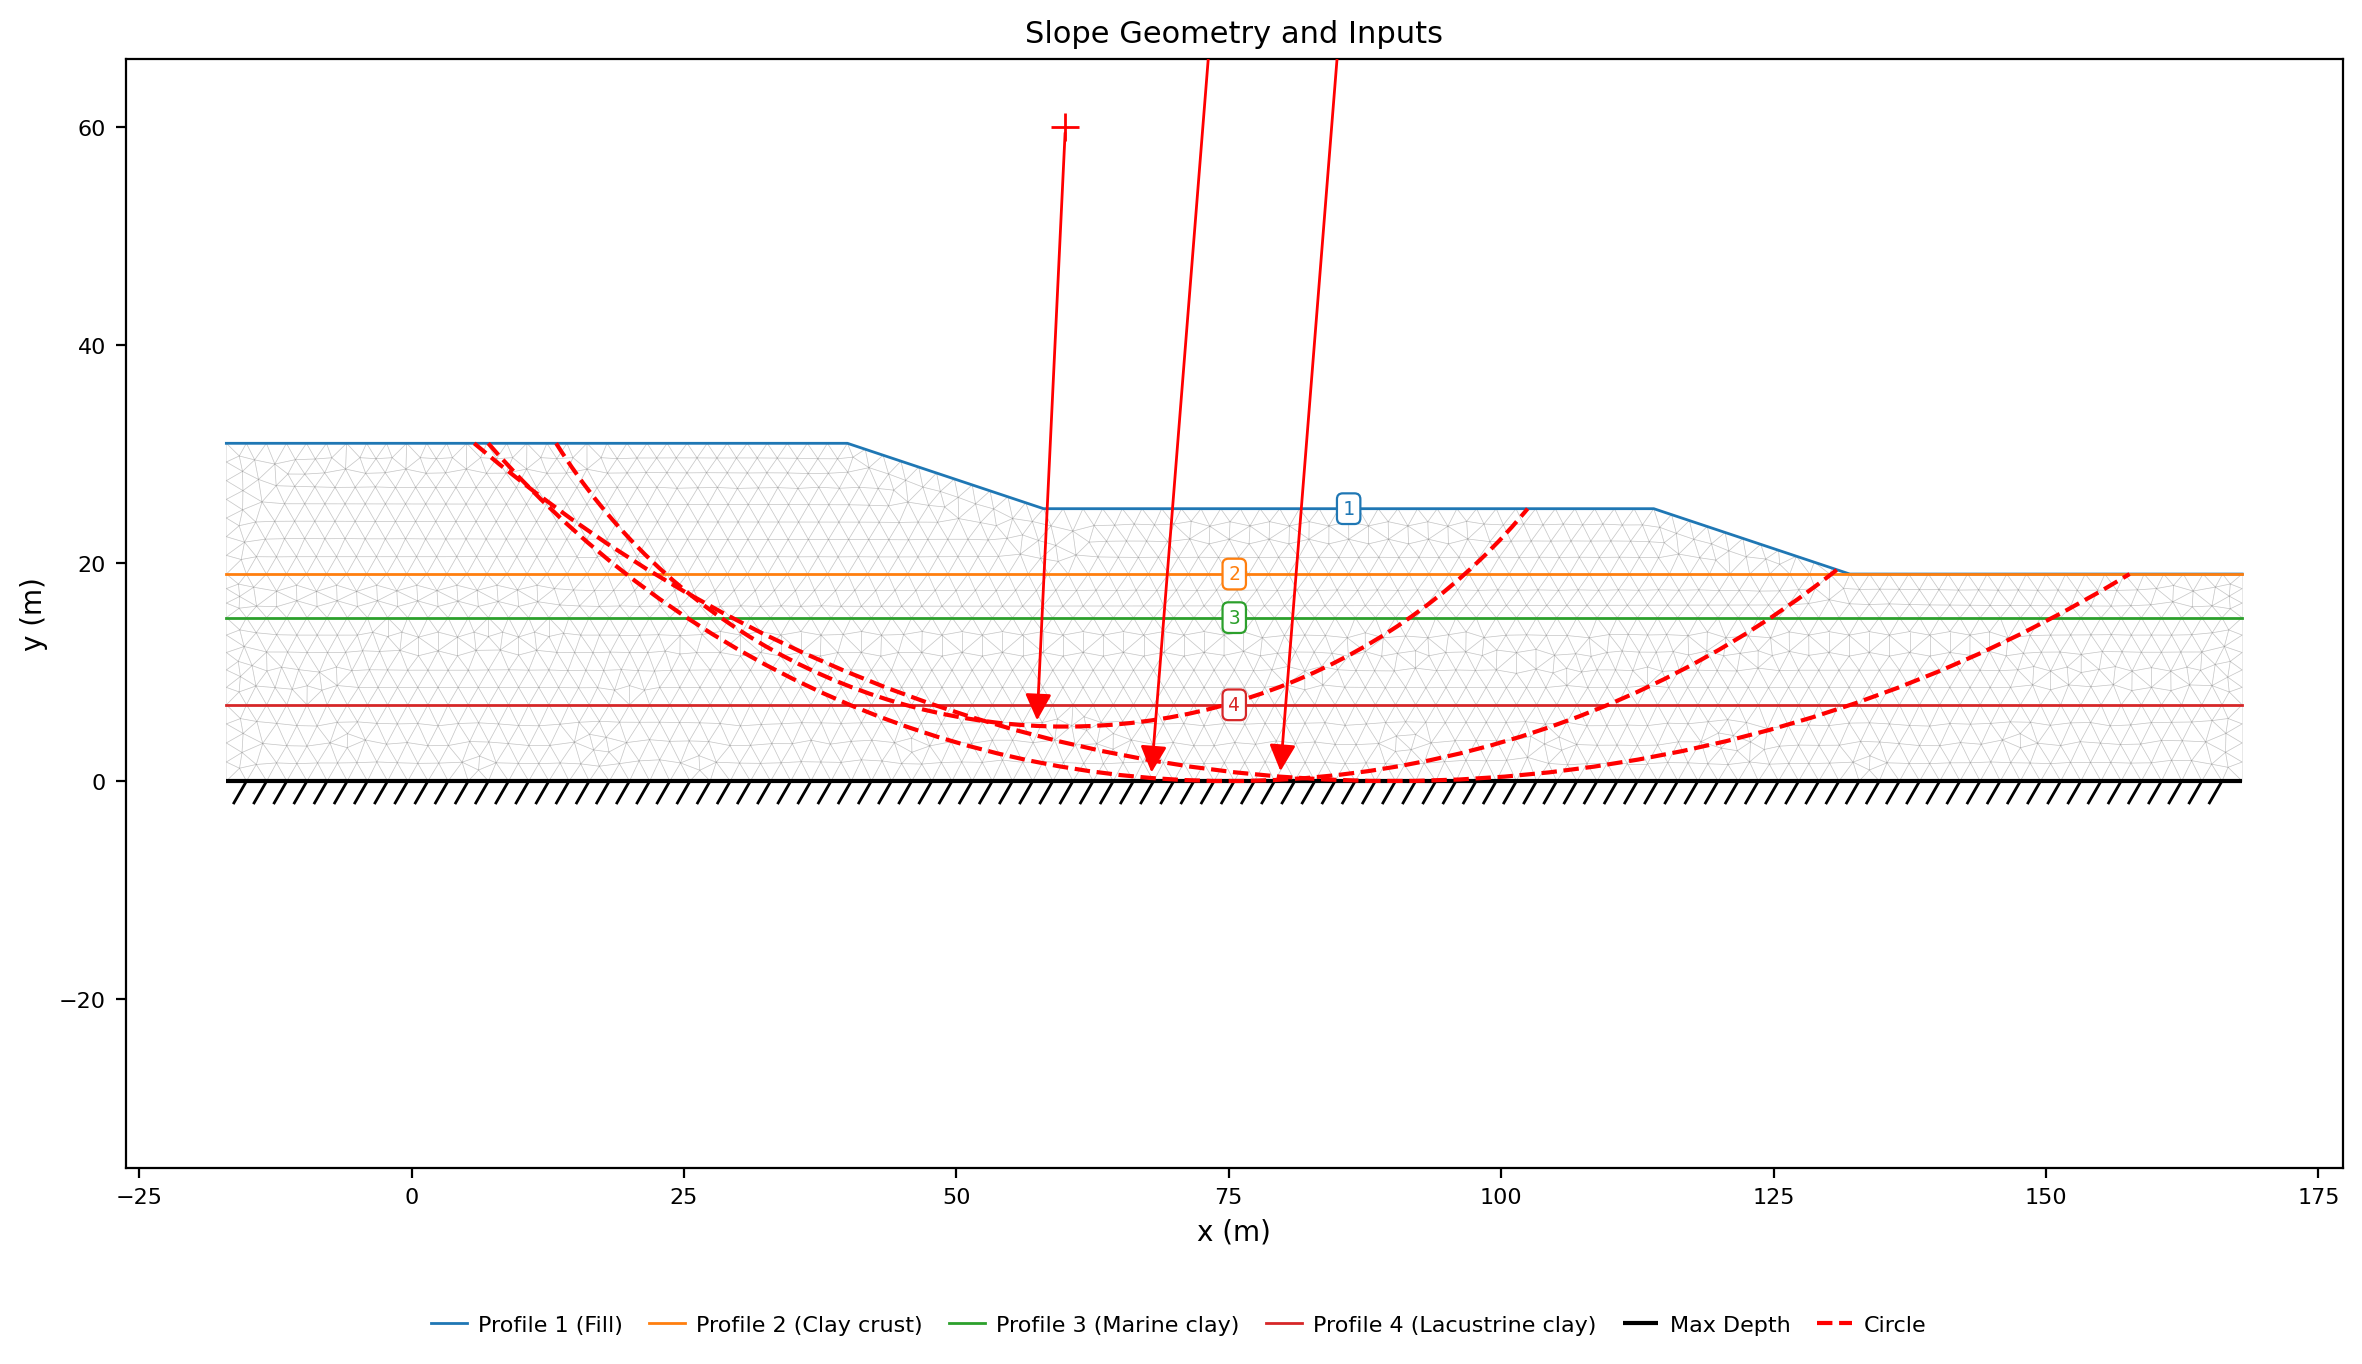
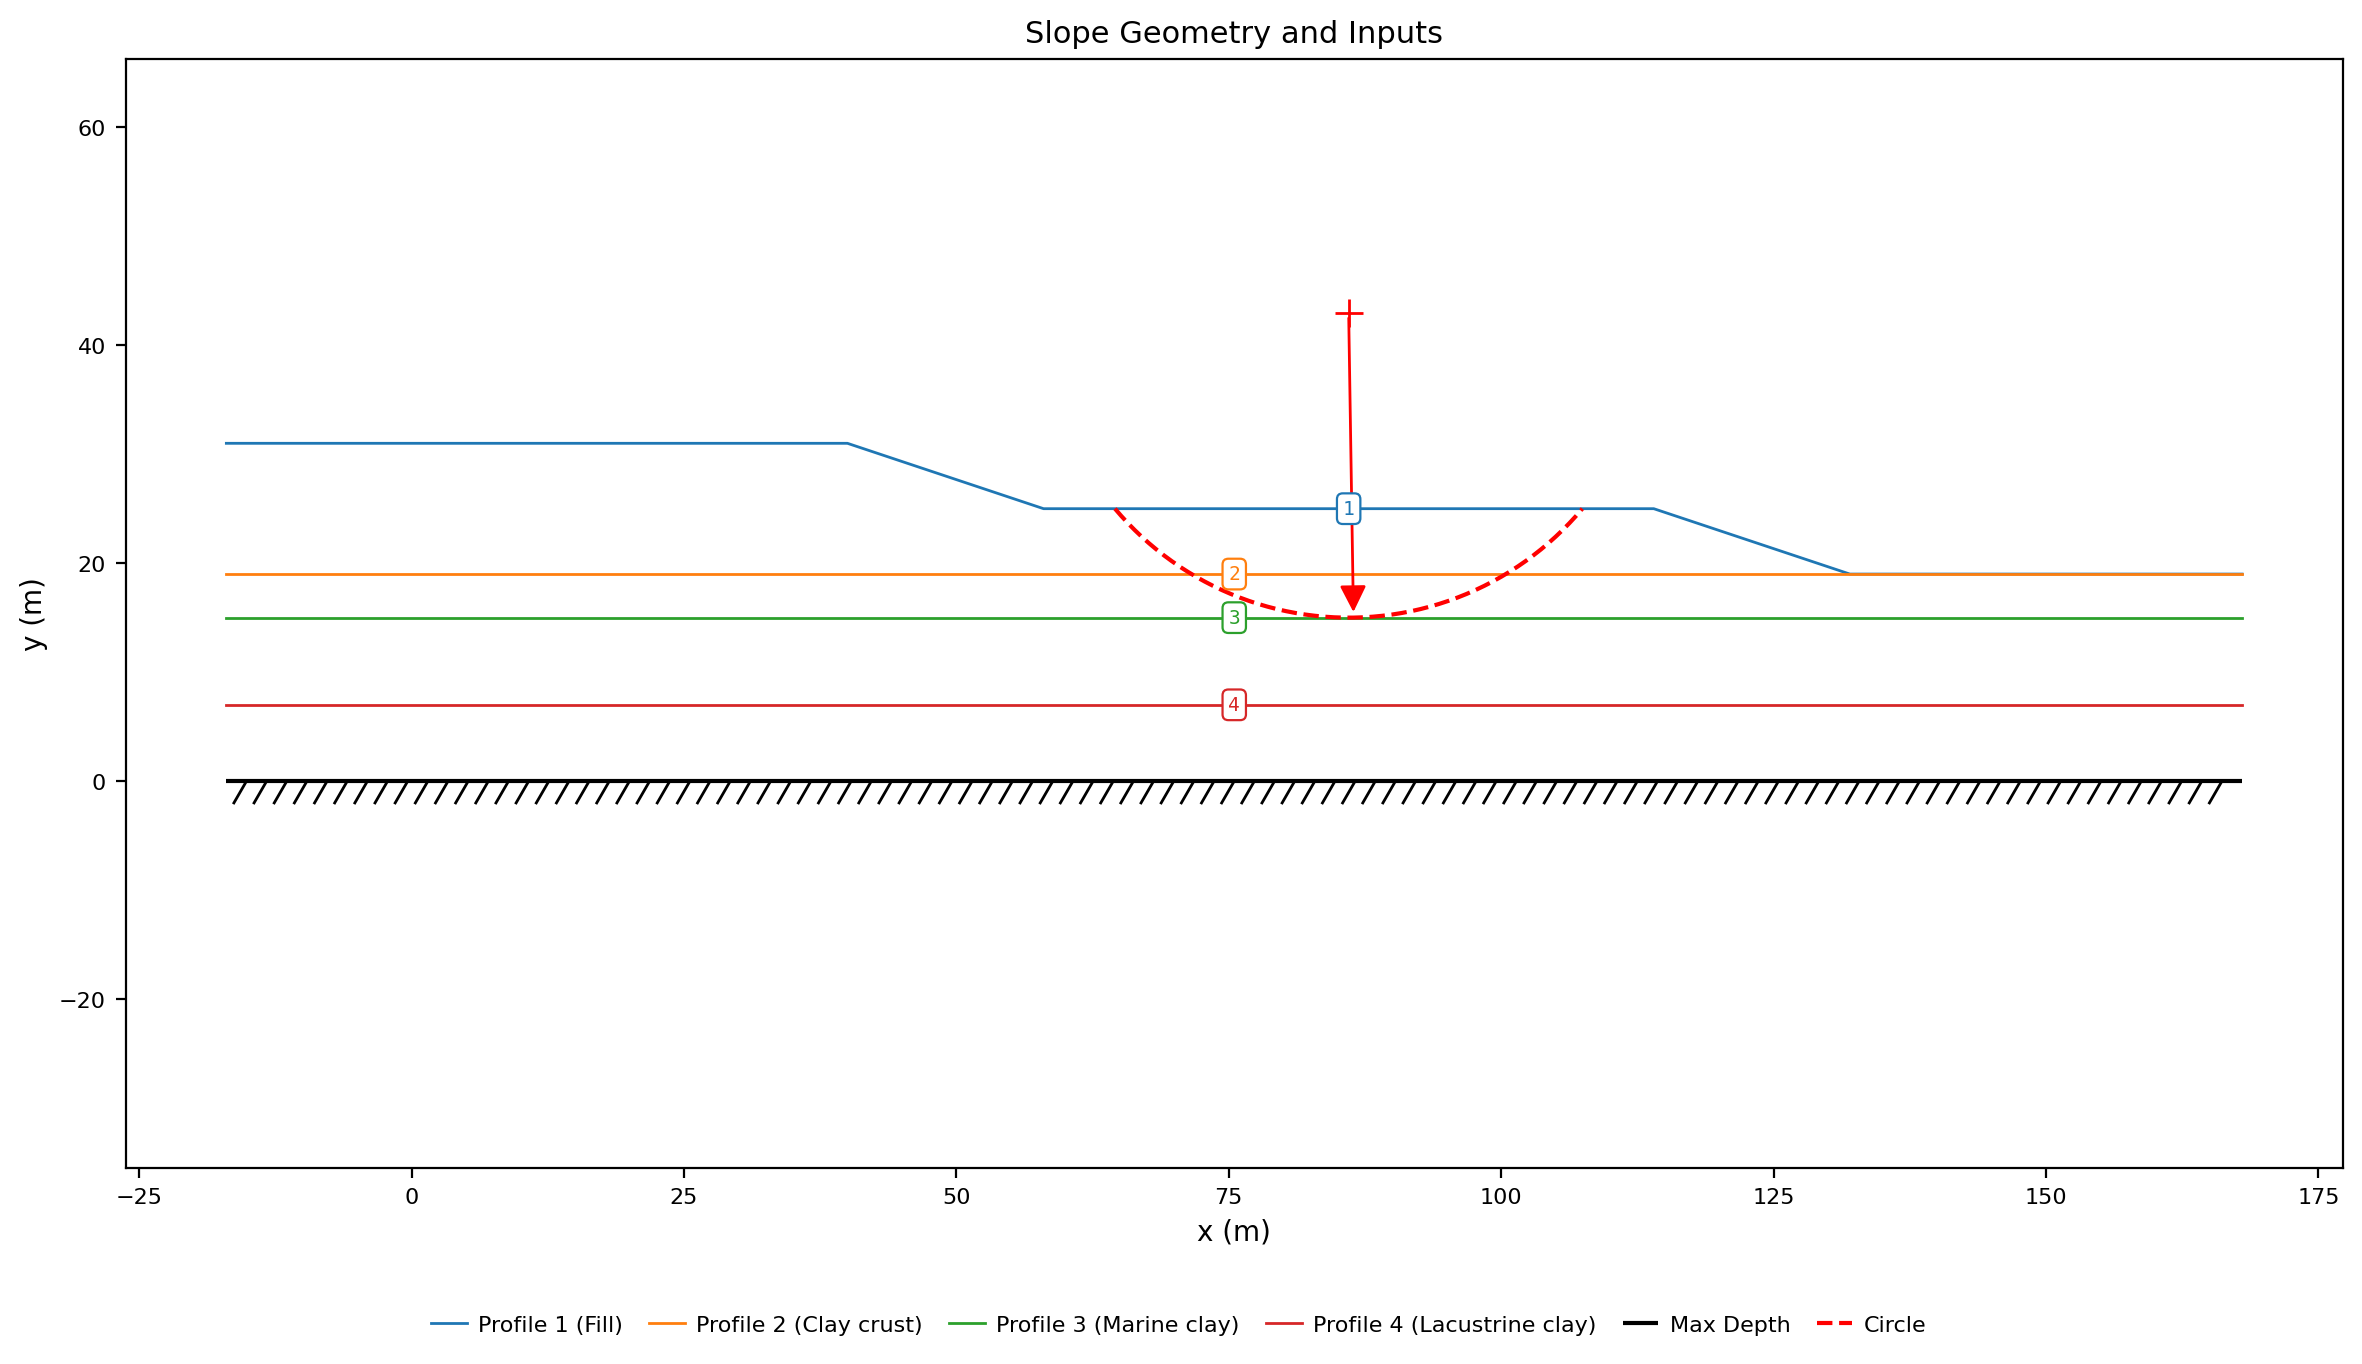
docs(tutorials): Part B opens its own file and shows its dialogs
The James Bay part now runs on xslope_james_bay.xlsx — a copy of VP75's
model carrying the single mid-depth seed on its circles sheet (rich headers
patched to match its new home; verified 1.7443 / 1.4204 on the copy) — so
the reader opens and runs instead of deleting two of a corpus file's rows.
Part B now shows the same graphics Part A does: the loaded-model inputs
plot with its one seed, the Run dialog with the 2 m filter set, and the
dialog again with Grid search ticked, each at the step that dictates it.

Claude-Session: https://claude.ai/code/session_01XjjT2aBxw8gY7EFdpoUcpj

Changed region(s): [[0.0927, 0.3079, 0.9581, 0.585], [0.5563, 0.2155, 0.5872, 0.2463]]

diff --git a/tools/make_tutorial_figures.py b/tools/make_tutorial_figures.py
@@ -1220,8 +1220,7 @@ def lem09_plots():
 #: searched from the generated circle set and from the deep circle the file
 #: carries, so each answer sits on the surface its own seed converged to.
 LEM10 = os.path.join(REPO_ROOT, "docs/lem/files/xslope_mult_min_KEY.xlsx")
-LEM10_VP75 = os.path.join(REPO_ROOT,
-                          "docs/verification/files/rocscience/vp075.xlsx")
+LEM10_JB = os.path.join(REPO_ROOT, "docs/lem/files/xslope_james_bay.xlsx")
 LEM10_SLICES = 40
 
 
@@ -1280,16 +1279,16 @@ def lem10_plots():
     # showcase. The generated per-layer seeds settle in the fill; the grid
     # finds the deep circle through all three clays. Both at the Run dialog's
     # default 40 slices, which is the flow the page walks.
-    vp75 = load_slope_data(LEM10_VP75)
+    # Part B runs on the tutorial's own copy of VP75: the same dyke with a
+    # single mid-depth seed on the circles sheet — the circle an engineer might
+    # place expecting the failure under the crest — so the reader opens and
+    # runs without editing anything.
+    vp75 = load_slope_data(LEM10_JB)
     capture("lem10_vp75_inputs.png", plot_inputs, vp75,
             title="Slope Geometry and Inputs")
     gen75 = generate_starting_circles(vp75)
-    # The trap the page shows is the SINGLE plausible seed: the per-layer circle
-    # tangent to the marine-clay top (the one an engineer might place, expecting
-    # the failure in the fill), searched alone with the 2 m surficial filter.
-    single = [c for c in gen75 if abs(c["Depth"] - 15.0) < 1e-6]
     with contextlib.redirect_stdout(io.StringIO()):
-        fs_1, _, _, _ = circular_search(dict(vp75, circles=single), "spencer",
+        fs_1, _, _, _ = circular_search(copy.deepcopy(vp75), "spencer",
                                         num_slices=40, min_slip_depth=2.0,
                                         diagnostic=False)
         fs_all, _, _, _ = circular_search(dict(vp75, circles=gen75), "spencer",

diff --git a/tools/capture_tutorial_screenshots.py b/tools/capture_tutorial_screenshots.py
@@ -853,9 +853,38 @@ def lem10_circles():
     return _grab(dlg, "lem10_studio_circles.png")
 
 
+LEM10_JB = os.path.join(REPO_ROOT, "docs/lem/files/xslope_james_bay.xlsx")
+
+
+def lem10_jb_run_lem():
+    """Part B's first run: the dyke's single seed, Spencer auto search with the
+    surficial filter at the metric 2 m — the state the step dictates."""
+    from studio.dialogs import RunLemDialog
+
+    dlg = RunLemDialog(defaults={"method": "spencer", "analysis": "auto_search",
+                                 "num_slices": 40, "min_slip_depth": 2.0},
+                       slope_data=_load(LEM10_JB))
+    dlg.resize(dlg.sizeHint())
+    return _grab(dlg, "lem10_jb_run_lem.png")
+
+
+def lem10_jb_run_lem_grid():
+    """Part B's second run: the same dialog with Grid search ticked."""
+    from studio.dialogs import RunLemDialog
+
+    dlg = RunLemDialog(defaults={"method": "spencer", "analysis": "auto_search",
+                                 "num_slices": 40, "min_slip_depth": 2.0,
+                                 "grid_seed": True},
+                       slope_data=_load(LEM10_JB))
+    dlg.resize(dlg.sizeHint())
+    return _grab(dlg, "lem10_jb_run_lem_grid.png")
+
+
 SHOTS["lem10_run_lem"] = lem10_run_lem
 SHOTS["lem10_run_lem_filtered"] = lem10_run_lem_filtered
 SHOTS["lem10_circles"] = lem10_circles
+SHOTS["lem10_jb_run_lem"] = lem10_jb_run_lem
+SHOTS["lem10_jb_run_lem_grid"] = lem10_jb_run_lem_grid
 
 
 def lem01_global():

diff --git a/docs/tutorials/lem10_global_minimum.md b/docs/tutorials/lem10_global_minimum.md
@@ -27,7 +27,7 @@ watch a single plausible seed miss the global minimum that grid seeding finds
 with no seeds at all (Part B).
 </div>
 <p><span class="tg-pill">two materials</span><span class="tg-pill">profile lines</span><span class="tg-pill">starting circles</span><span class="tg-pill">circular search</span><span class="tg-pill">grid seeding</span><span class="tg-pill">minimum slip depth</span></p>
-<div class="tgm-model" markdown>**Completed models** — [xslope_mult_min_KEY.xlsx](../lem/files/xslope_mult_min_KEY.xlsx) (the same file used by [LEM Sample Problem 13](../lem/samples.md#13-multiple-local-minima)) and, for the closing example, [vp075.xlsx](../verification/files/rocscience/vp075.xlsx), the James Bay dyke of [verification problem VP75](../verification/rocscience.md#vp75)</div>
+<div class="tgm-model" markdown>**Completed models** — [xslope_mult_min_KEY.xlsx](../lem/files/xslope_mult_min_KEY.xlsx) (the same file used by [LEM Sample Problem 13](../lem/samples.md#13-multiple-local-minima)) and, for Part B, [xslope_james_bay.xlsx](../lem/files/xslope_james_bay.xlsx) — the James Bay dyke of [verification problem VP75](../verification/rocscience.md#vp75), with a single mid-depth starting circle</div>
 </div>
 
 ---
@@ -155,24 +155,23 @@ that runs beneath it and daylights beyond.
 ### Opening the model
 
 Download
-[vp075.xlsx](../verification/files/rocscience/vp075.xlsx) and open it in
-Studio — **File → Open**. The Inputs plot draws the four profile lines in
-their materials' colors, with the file's three starting circles spanning
-shallow to deep:
+[xslope_james_bay.xlsx](../lem/files/xslope_james_bay.xlsx) — the dyke's
+model, carrying a single starting circle an engineer might reasonably place:
+mid-depth, under the crest — and open it in Studio with **File → Open**. The
+Inputs plot draws the four profile lines in their materials' colors with that
+one seed:
 
 ![The loaded dyke](images/lem10_vp75_inputs.png){width=1000}
 
-### A single plausible seed
+### Running the analysis
 
-Open **Circles** and replace the file's three rows with a single circle an
-engineer might reasonably place — mid-depth, under the crest:
+Click **Run LEM…** and choose **Method** = `Spencer` and **Analysis** =
+`Auto search`, with **Ignore surficial (skin) failures** on and
+**Min slip depth** = `2` — the metric counterpart of Part A's 5 ft:
 
-| Xo | Yo | Option | Depth |
-|:---:|:---:|---|:---:|
-| 86 | 43 | Depth | 15 |
+![The Run LEM dialog on the dyke](images/lem10_jb_run_lem.png)
 
-Run **Spencer**, `Auto search`, with **Ignore surficial failures** on and
-**Min slip depth** = `2` — the metric counterpart of the last section's 5 ft:
+Click **Run**:
 
 ![Spencer from the single mid-depth seed](images/lem10_vp75_single.png){width=1000}
 
@@ -186,9 +185,13 @@ is there to hold that mechanism.
 Now the seeding-independent tool. **Grid search (auto-seed the circular
 search)**, the checkbox beside the surficial filter, sweeps a grid of circle
 centers against a range of tangent elevations before refining, instead of
-refining only the neighborhood of the circles on the sheet. Tick it and run
-again — the grid ignores the circles sheet entirely, so it does not matter
-what is seeded:
+refining only the neighborhood of the circles on the sheet. Back in
+**Run LEM…**, tick it — the grid ignores the circles sheet entirely, so it
+does not matter what is seeded:
+
+![The Run LEM dialog with grid search on](images/lem10_jb_run_lem_grid.png)
+
+Run again:
 
 ![Spencer with grid seeding](images/lem10_vp75_grid.png){width=1000}
 
